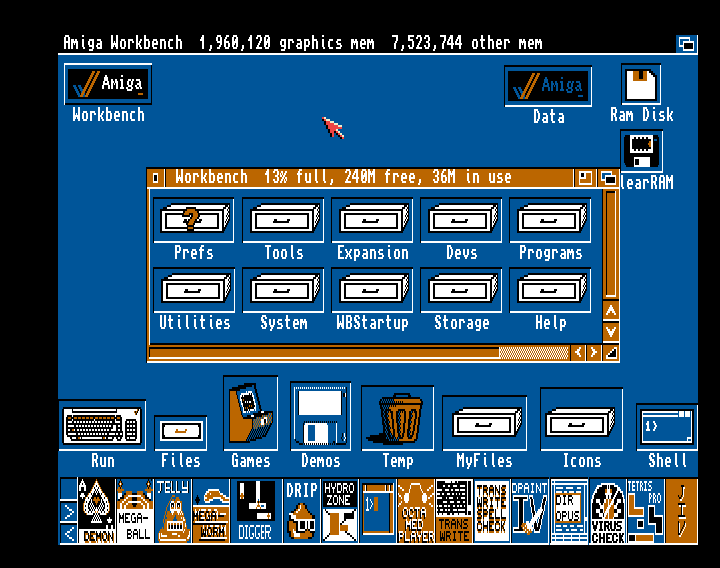
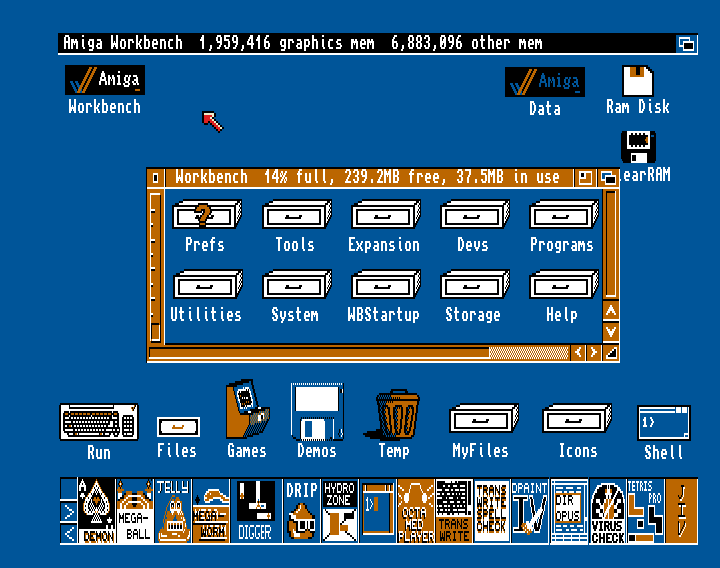
Fixed wb13 pointer and updated screenshots

diff --git a/README.md b/README.md
@@ -45,6 +45,7 @@ The install script for HstWB Installer is based on S/Startup-Sequence from Class
   - Disabled NewIcons.
   - Added arp.library and reqtools.library.
   - Installed FullPalette and patched green, blue and WB13 palettes.
+  - Added WB13 pointer.
   - Added LoadModule ROMUPDATE to support Kickstart 3.1 being patched to 3.1.4.
   - Added version checking of DEVS:scsi.device, so it only will be loaded if scsi.device in memory/resident is less than v43.45.
   - Added install patch Amiga OS 3.1.4.1, if Amiga OS 3.1.4.1 update is installed.
